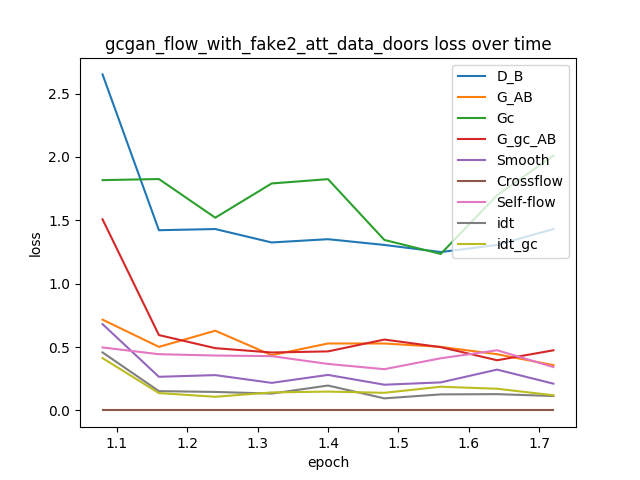
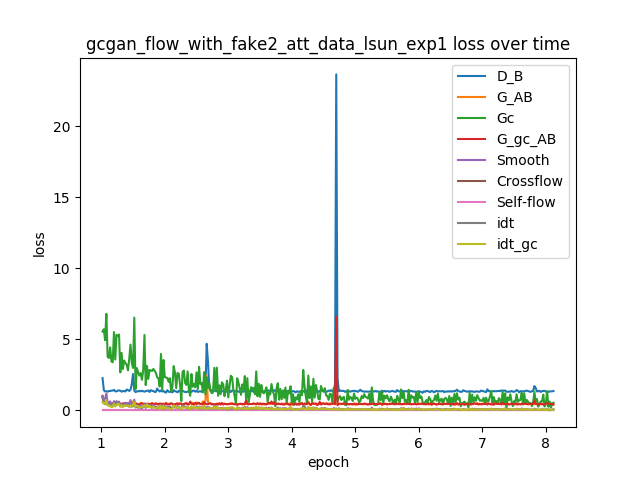
try lsun

diff --git a/models/.ipynb_checkpoints/gc_gan_cross_model-checkpoint.py b/models/.ipynb_checkpoints/gc_gan_cross_model-checkpoint.py
@@ -239,11 +239,11 @@ class GcGANCrossModel(BaseModel):
             # G_AB should be identity if real_B is fed.
             idt_A, flow = self.forward_G_basic(self.netG_AB, self.real_B)
             loss_idt = self.criterionIdt(idt_A, self.real_B) * self.opt.lambda_AB * self.opt.identity
-            #loss_s += self.cal_smooth(flow)
+            loss_smooth += self.cal_smooth(flow) * self.opt.lambda_smooth
 
             idt_gc_A, flow = self.forward_G_basic(self.netG_gc_AB, self.real_gc_B)
             loss_idt_gc = self.criterionIdt(idt_gc_A, self.real_gc_B) * self.opt.lambda_AB * self.opt.identity
-            #loss_s += self.cal_smooth(flow)
+            loss_smooth += self.cal_smooth(flow) * self.opt.lambda_smooth
 
             self.idt_A = idt_A.data
             self.idt_gc_A = idt_gc_A.data

diff --git a/models/gc_gan_cross_model.py b/models/gc_gan_cross_model.py
@@ -239,11 +239,11 @@ class GcGANCrossModel(BaseModel):
             # G_AB should be identity if real_B is fed.
             idt_A, flow = self.forward_G_basic(self.netG_AB, self.real_B)
             loss_idt = self.criterionIdt(idt_A, self.real_B) * self.opt.lambda_AB * self.opt.identity
-            #loss_s += self.cal_smooth(flow)
+            loss_smooth += self.cal_smooth(flow) * self.opt.lambda_smooth
 
             idt_gc_A, flow = self.forward_G_basic(self.netG_gc_AB, self.real_gc_B)
             loss_idt_gc = self.criterionIdt(idt_gc_A, self.real_gc_B) * self.opt.lambda_AB * self.opt.identity
-            #loss_s += self.cal_smooth(flow)
+            loss_smooth += self.cal_smooth(flow) * self.opt.lambda_smooth
 
             self.idt_A = idt_A.data
             self.idt_gc_A = idt_gc_A.data
